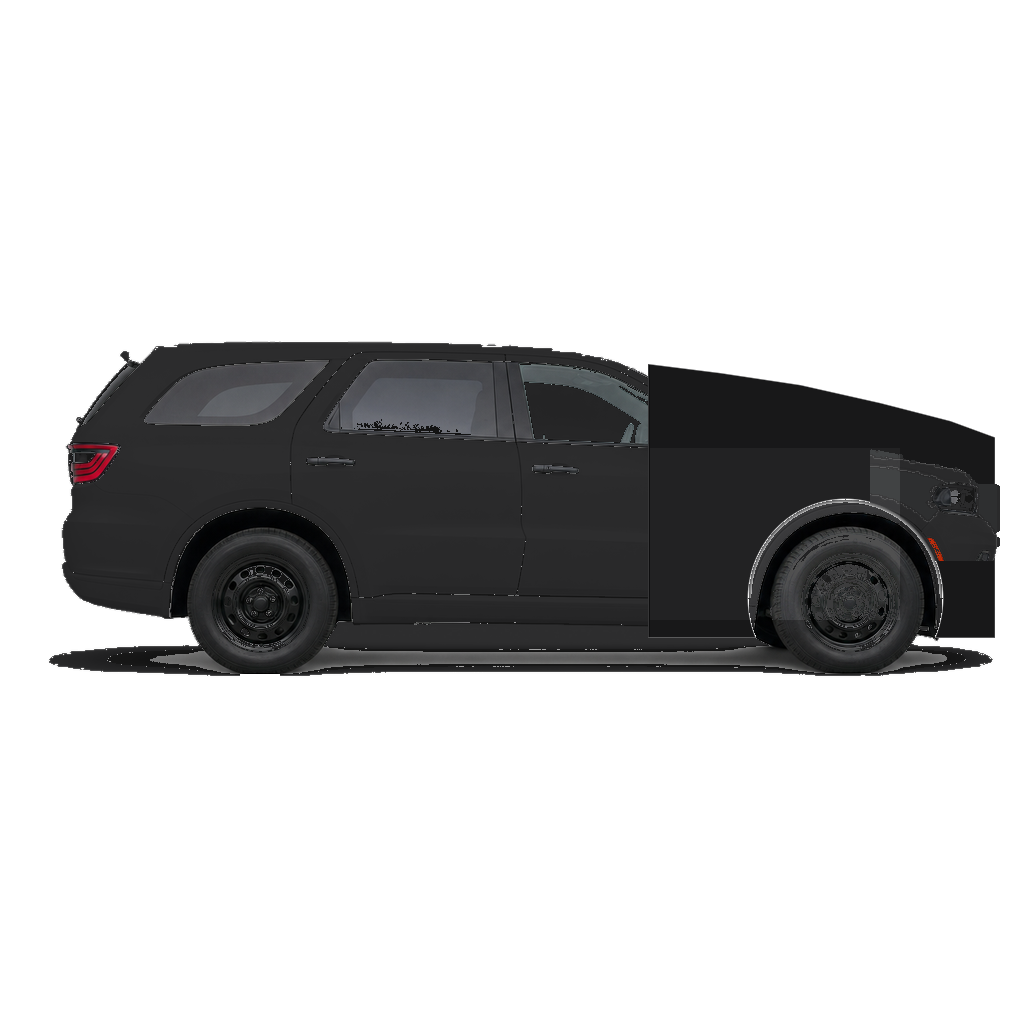
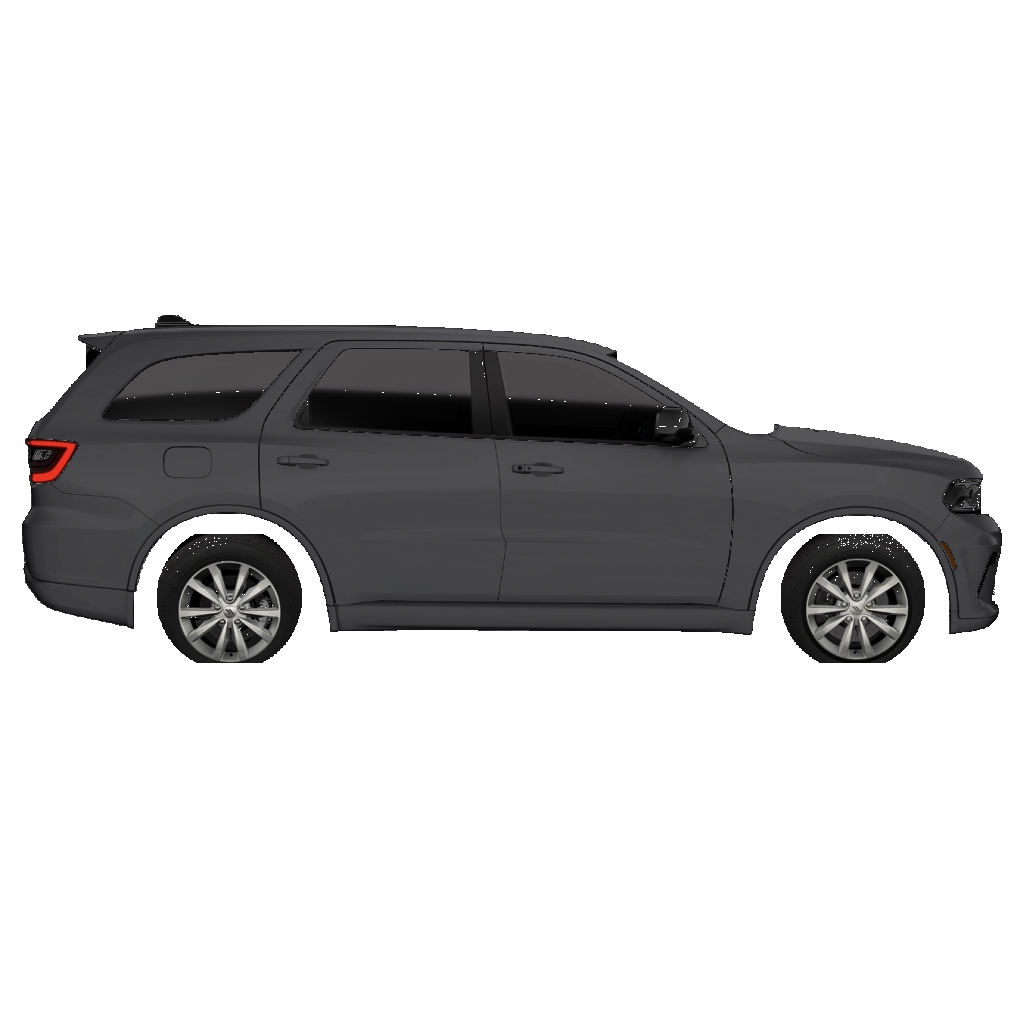
Recut Durango Left/Right from the studio side JPEG
Throw out the spliced-nose cut3 plates. Left is one hard-alpha
cutout of rusty-durango-studio-left.jpeg on a black 1024 canvas.
Right is a horizontal flip of that Left. Black twins are remapped
from the same recut. Hatch Open, Rear, Front, and ALGT widths
are unchanged.

Changed region(s): [[0.0, 0.2812, 1.0, 0.6875]]

diff --git a/visualizer/index.html b/visualizer/index.html
@@ -196,7 +196,7 @@ select:focus,input[type=text]:focus{box-shadow:0 0 0 2px color-mix(in srgb,var(-
 (function(){
 /* Multi-canvas visualizer. Catalog is shared FedSig SKUs (no invented lights).
    Durango mounts stay as previously signed; trucks have their own snaps. */
-var ASSET_V="cut3";
+var ASSET_V="studio1";
 var FX_V="max4";
 var DURANGO_VIEWS=[
   {id:"front",label:"Front",imgW:"durango_front.png",imgB:"durango_front_black.png"},
